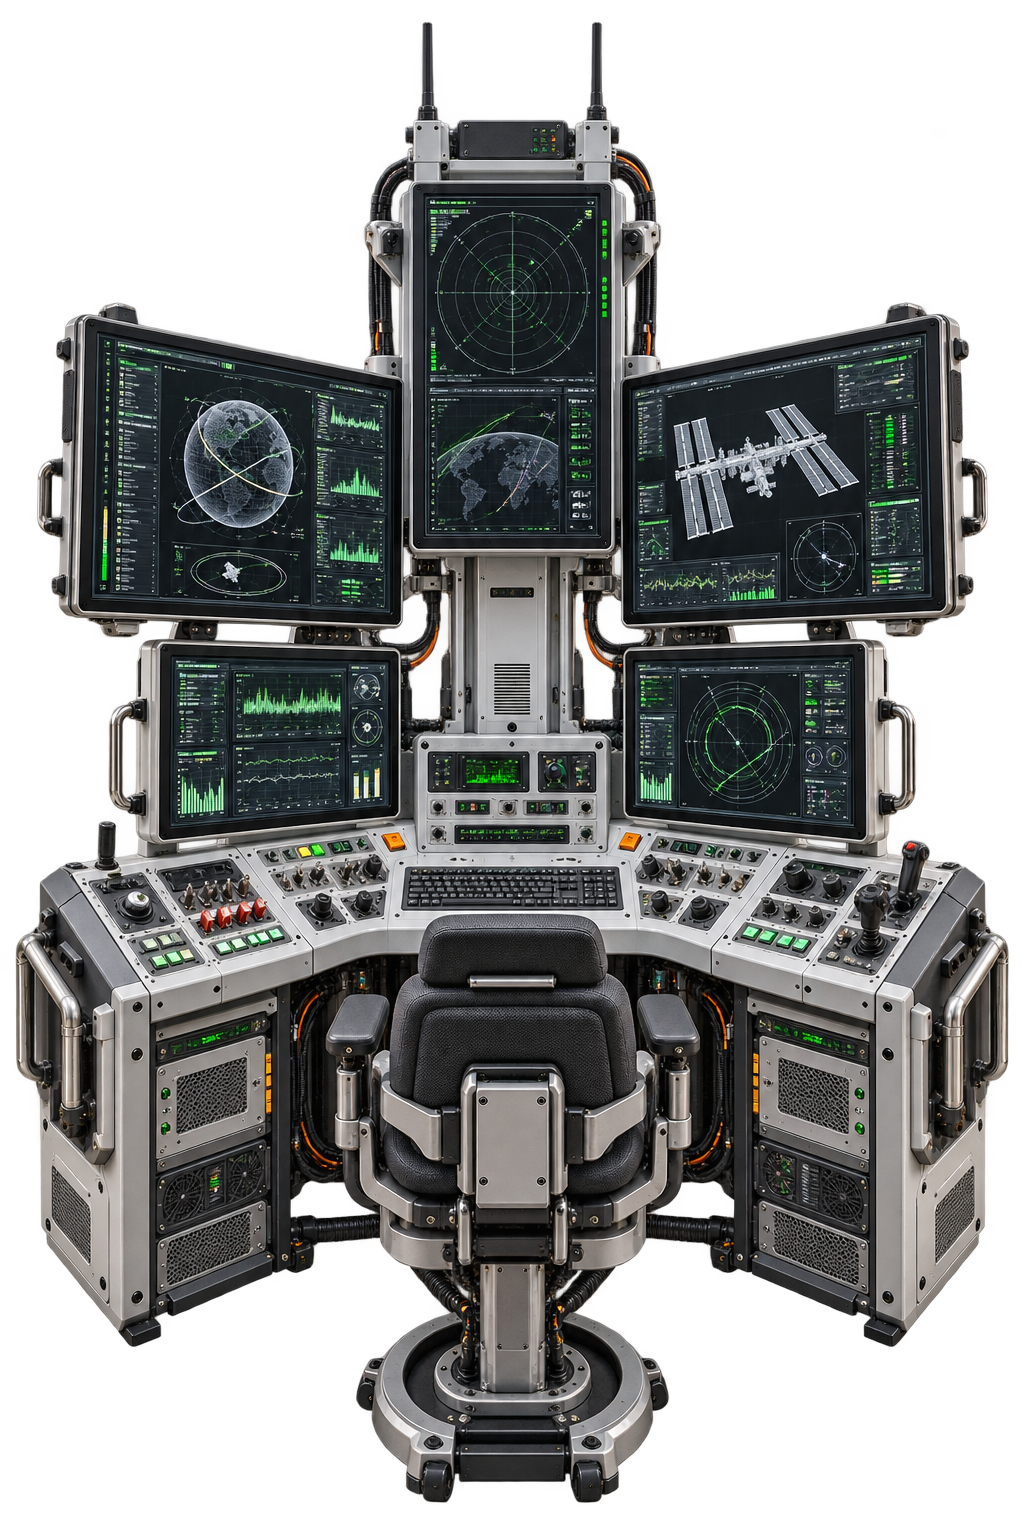
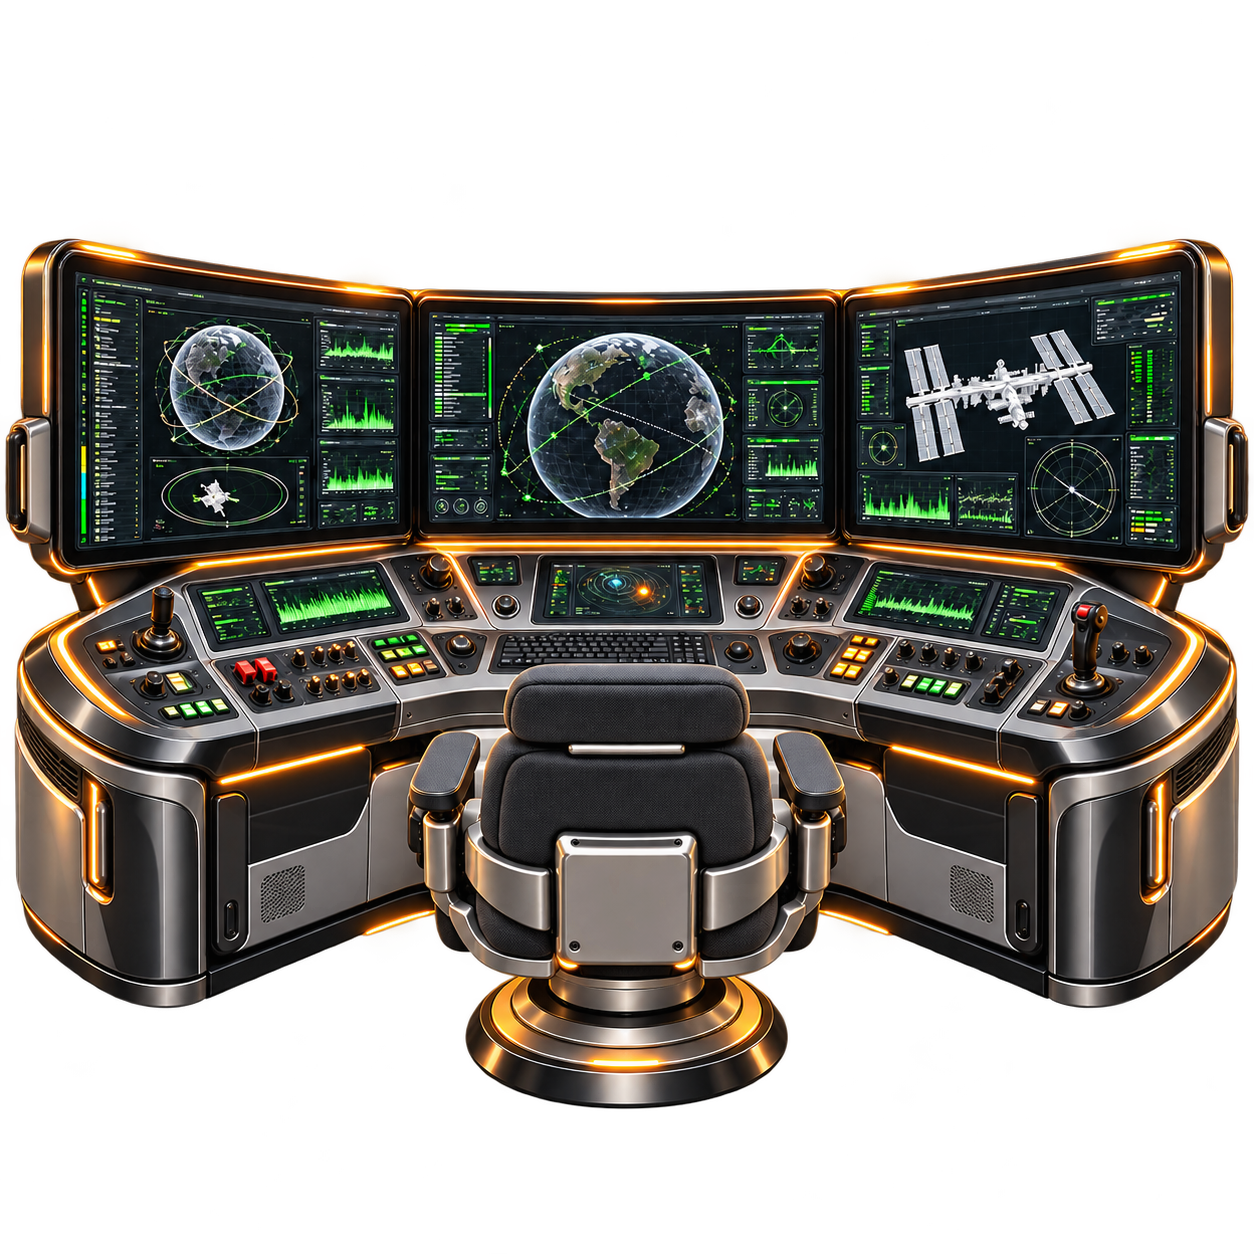
Refine control center with rounded glossy surfaces and solar edge light

diff --git a/index.html b/index.html
@@ -55,7 +55,7 @@
 </div>
 <div class="hero-new" style="clip-path:inset(-120px 0 0 50%);">
 <div aria-hidden="true" class="white-halo sun-stage"><div class="solar-aura"></div><video class="sun-video" loop="" muted="muted" playsinline="" poster="assets/images/sun-poster.jpg" preload="none" tabindex="-1"><source media="(max-width:760px)" src="assets/video/sun-mobile.mp4" type="video/mp4"/><source src="assets/video/sun-desktop.mp4" type="video/mp4"/></video><div class="solar-corona-layer"><img alt="" class="solar-corona-plate" height="512" src="assets/images/sun-corona.webp" width="512"/><video class="solar-corona-video" height="512" loop="" muted="" playsinline="" preload="none" tabindex="-1" width="512"><source media="(max-width:760px)" src="assets/video/sun-corona-mobile.webm" type="video/webm"/><source src="assets/video/sun-corona.webm" type="video/webm"/></video></div></div>
-<div aria-hidden="true" class="character-wrap control-center-wrap"><img alt="" class="hero-character control-center-image" fetchpriority="high" height="1536" src="assets/images/control-center.webp" width="1024"/></div>
+<div aria-hidden="true" class="character-wrap control-center-wrap"><img alt="" class="hero-character control-center-image" fetchpriority="high" height="1254" src="assets/images/control-center.webp" width="1254"/></div>
 <div class="hero-title-group">
 <p class="eyebrow mono"><span></span>Alte Website. Neue Dimension.</p>
 <h1 class="dexter-title" id="hero-title"><span>DIGITAL</span><br/> <span class="outline">REWORK</span><b>.</b></h1>

diff --git a/assets/css/studio.css b/assets/css/studio.css
@@ -899,15 +899,15 @@ html.studio-tab-hidden .hero-new * { animation-play-state:paused !important; }
 .solar-corona-video.is-ready { opacity:1; }
 @media(prefers-reduced-motion:reduce) { .solar-corona-video { display:none; } }
 
-/* Foreground control center replaces the astronaut; the sun and copy retain their layout. */
-.character-wrap.control-center-wrap { width:420px; height:630px; bottom:22px; }
+/* Compact rounded control center, clear of both text columns. */
+.character-wrap.control-center-wrap { width:min(28vw,400px); height:min(28vw,400px); bottom:165px; }
 .hero-character.control-center-image { filter:drop-shadow(0 12px 22px #0009); }
 @media (min-width:1550px) {
-  .character-wrap.control-center-wrap { width:450px; height:675px; bottom:30px; }
+  .character-wrap.control-center-wrap { width:420px; height:420px; bottom:160px; left:54%; }
 }
 @media (max-width:1100px) {
-  .character-wrap.control-center-wrap { width:330px; height:495px; bottom:35px; }
+  .character-wrap.control-center-wrap { width:27vw; height:27vw; max-width:300px; max-height:300px; top:170px; bottom:auto; left:53%; }
 }
 @media (max-width:760px) {
-  .character-wrap.control-center-wrap { width:220px; height:330px; top:43px; bottom:auto; left:64%; }
+  .character-wrap.control-center-wrap { width:220px; height:220px; top:43px; bottom:auto; left:64%; }
 }

diff --git a/docs/control-center-prompt.md b/docs/control-center-prompt.md
@@ -1,11 +1,14 @@
 # Kontrollzentrale – finaler Bildprompt
 
-Erstellt mit der integrierten Bildgenerierung (Edit auf Basis des ersten Motivs).
-Tatsächlich ausgegeben: 1024 × 1536 Pixel, RGBA, mit Transparenz.
+Erstellt mit der integrierten Bildgenerierung als gezielte Überarbeitung.
+Tatsächlich ausgegeben: 1254 × 1254 Pixel, RGBA, mit Transparenz.
 Für die Website als verlustfreies WebP ohne Größenänderung gespeichert.
-Der Auflösungswunsch im Prompt wurde vom Bildwerkzeug nicht auf 2048 × 3072 umgesetzt; es wird keine größere native Auflösung behauptet.
+Die Ausgabe ist nicht auf eine größere Auflösung hochskaliert.
+
+Visuelle Referenz: https://www.youtube.com/watch?v=VVzm8yyHCHE
+Der YouTube-Player blieb im Ladezustand; ergänzend wurden Standbild-Suchergebnisse der Light-Cycle-Szene für Oberflächen und Licht betrachtet. Keine Filmgrafiken im Produkt verwendet.
 
 ```text
-Use case: style-transfer and precise-object-edit. Asset type: transparent website foreground control center. Edit the referenced control-center asset. The user finds it blurry, too alien and too gloomy. REDESIGN it as a realistic contemporary HUMAN-ENGINEERED mission control workstation, clean and brighter, with substantially sharper fine detail. OUTPUT A HIGHER NATIVE RESOLUTION PORTRAIT IMAGE, ideally 2048x3072, not a simple upscale of the reference. Render fresh fine geometry and real sharp detail. Preserve the centered freestanding portrait composition and actual transparent background. Entire hardware visible, with padding around all edges, no cut-off antennae. Subject: a compact professional aerospace control station: restrained satin light-gray aluminum and graphite panels, practical upright screen rack, neat wraparound console, real ergonomic empty operator chair, precisely separated keys, coherent toggle-switch banks, rotary knobs, screws, ventilation slots and well-organized wiring. Build it like real precision equipment in a clean modern mission-control room, not an alien throne, junkyard, biomechanical sculpture or rusty spaceship. Replace the ornate dark exoskeleton and dramatic arch with simple engineered screen supports. Four to six larger crisp flat-panel monitors with high-contrast radar rings, orbit plots, waveform telemetry and clearly separated interface panels; mostly neutral gray / white interface lines with restrained laser-green #19E50F status accents. Maintain fine instrument detail without filling every surface with random tiny gibberish. Bright soft neutral studio lighting illuminates all hardware, clean realistic micro-textures, sharp metal edges, subtle warm amber rim reflections only. Deep focus: the entire console, every screen, the keyboard and chair are tack sharp. No depth-of-field blur, motion blur, bloom, haze, dirty lens, film grain, heavy vignette, soft painterly details or dark underexposure. Photorealistic high-end industrial product visualization at close inspection. No blue/purple lighting, people, astronaut, logos, captions, floor rectangle, opaque background, galaxy or sun. Preserve transparency in structural openings and around the complete station. This is an isolated finished asset, not a website mockup.
+Use case: style-transfer / lighting-weather. Edit the provided COMPACT rounded control station. Keep its exact low, wide ergonomic silhouette, three large monitors in a shallow arc, wraparound console, empty chair, detailed sharp telemetry, square composition and actual transparent background. Change ONLY the surface design, refined detailing and lighting to a sleek TRON: Legacy light-cycle-inspired design language: smooth glossy graphite, polished dark smoked glass, clean fluid curvature, precise thin luminous seams, crisp cinematic reflections. Do not copy any specific movie prop or logo. Replace beige/gold bulk surfaces with a balanced mix of glossy graphite shells, soft pearl-gray inset panels and subtly reflective titanium trim. Keep enough soft neutral-warm frontal fill to make the object clear and inviting, not gloomy or underexposed. No rough metal, rust, scratches, exposed exoskeleton, antennae, tall towers, spikes or alien ornament. Retain distinctly rendered practical controls with clean flush housings; every key, joystick, knob and screen panel is sharply separated. Monitors remain readable with finely detailed radar rings, orbit diagrams, waveform telemetry and precise white/gray interface lines with restrained laser-green #19E50F highlights. No blue/cyan/purple tint; use the website's green and amber palette. IMPORTANT SOLAR LIGHTING: a blazing orange sun is behind and above the object. Narrow warm AMBER-ORANGE edge light must catch the top and outward-facing sides of the monitor housings and console, with believable amber reflections on glossy surfaces. Use a few fine integrated warm-white/amber light seams; avoid broad golden tube outlines, yellow washed surfaces, huge glow, haze or blurred bloom. Reflections and highlights reveal the polished surfaces without making the whole station black. The style should feel sophisticated, modern, smooth, compact and human-engineered. Preserve image detail and sharpness with deep focus across the complete station; no grain, softness, depth-of-field blur or painterly rendering. Entire station completely visible with transparent padding on every edge. Retain a square high-native-resolution output, 1254x1254 or larger, not an upscaled blurry image. Genuine transparency around and through structural gaps. No floor rectangle, opaque backdrop, sun, galaxy, people, captions, watermarks or logos. This is an isolated finished website foreground asset, not a webpage mockup.
 ```
 

diff --git a/PROJECT_NOTES.md b/PROJECT_NOTES.md
@@ -370,19 +370,19 @@ sichtbarem rechten, linken und oberen Ausbruch geprüft und dokumentiert:
 docs/nova-live-preview.jpg. Zurückziehen und Ruhephase im decodierten
 Kontaktbogen kontrolliert. Ursprüngliche Sonnenvideos sind unverändert.
 
-## Astronaut durch hochauflösende Kontrollzentrale ersetzt
-Basis 89b40a0, neuer Preview-Branch feat/control-center-20261022.
-Neue fotorealistische Kontrollzentrale mit eingebauter Bildgenerierung erstellt:
-1024x1536 RGBA, gleiche Pixelauflösung wie das bisherige Astronautenasset.
-Freigestellte moderne Hardware mit Radar, Telemetrie, hellem Aluminium,
-Graphit und dezenten warmen Reflexen;
-keine Person und kein eigener Hintergrund. Alpha geprüft: rund 37 Prozent
-vollständig transparent, Außenkanten maximal Alpha 1/255. WebP in Originalgröße
-verlustfrei exportiert (1708164 Bytes); keine Hochskalierung. Die verfeinerte
-Fassung hat klar getrennte Anzeigen und präzisere Bedienelemente. Ausgabe
-des Bildwerkzeugs bleibt trotz größerem Auflösungswunsch 1024x1536; keine
-Behauptung von nativer 2K-/4K-Auflösung. PNG und WebP pixelgenau verglichen.
-Das neue Asset nutzt die bestehende Vordergrund-/Eingangsanimation. Nur der
-Bildpfad und motivspezifische Größenregeln ändern sich; der bisherige Farbfilter
-mit Hue-Rotate ist für das neue Motiv deaktiviert. Sonne und Koronafilme,
-Galaxie und Steuerlogik werden nicht geändert. Prompt: docs/control-center-prompt.md.
+## Astronaut durch moderne kompakte Kontrollzentrale ersetzt
+Basis 89b40a0, Preview-Branch feat/control-center-20261022.
+Finale Fassung nach Patricks Präzisierungen: niedrige gerundete Konsole, drei
+breite Monitore, klar getrennte Bedienelemente, glänzendes Graphit, hellere
+Einlagen und präzise grüne Telemetrie. Keine hohe spitze/raue Maststruktur.
+Warme orange Kanten und Reflexe verbinden das Objekt optisch mit der Sonne.
+TRON-Referenz VVzm8yyHCHE identifiziert; Player blieb bei readyState=0 auch
+nach Qualitätsreduktion. Deshalb Standbild-Suchergebnisse der Szene ergänzend
+für Glanzflächen, Lichtlinien und Reflexe herangezogen, keine Filmassets kopiert.
+Bildgenerierung als eigenes Asset; tatsächliche Ausgabe 1254x1254 RGBA,
+rund 1.57 MP. Keine künstliche Hochskalierung, verlustfreies WebP (1317204 Bytes)
+ist pixelgleich mit der PNG. Die frühere hohe Variante wird im HTML ersetzt.
+Das Motiv nutzt die bestehende Ankunftsanimation. Sonnen-/Koronafilme,
+Galaxie und Steuerlogik bleiben unverändert. Kein Hue-Rotate für das neue Bild.
+Quadratische motivspezifische CSS-Box, mobil 220x220, erhält freie Textflächen.
+Finaler Prompt und Bildherkunft: docs/control-center-prompt.md.

diff --git a/DESIGN_SYSTEM.md b/DESIGN_SYSTEM.md
@@ -147,13 +147,14 @@ per Tastatur und Touch steuerbar und hat ein dynamisches aria-label.
 Die orange/gelben Screenshot-Kästen sind Markierungen, keine sichtbaren Rahmen.
 
 ## Kontrollzentrale als neues Hero-Motiv
-Auf Patricks ausdrücklichen Wunsch ersetzt eine realistische freigestellte
-Kontrollzentrale den Astronauten. Asset: assets/images/control-center.webp,
-1024x1536 Pixel, gleiche Originalauflösung wie der Astronaut, mit echtem Alpha.
-Helles präzises Aluminium, Graphit, Glas, klar getrennte Radar-/Telemetrieanzeigen
-und gezielte grüne Instrumentenakzente. Moderne menschliche Technik, hell und
-gut lesbar; keine außerirdischen Formen, rostigen Strukturen oder Unterbelichtung.
-Keine Personen. Das WebP wird verlustfrei in nativer Größe eingebunden.
-Kein Hue-Rotate auf diesem Asset: Grün bleibt #19E50F, Amber bleibt warm.
-Nur Motivgröße und Position werden auf die breitere Silhouette abgestimmt.
-Sonne, 33.5-s-Korona, Galaxie, Vergleichsregler und Texte bleiben bestehen.
+Auf Patricks Wunsch ersetzt eine realistische freigestellte Kontrollzentrale
+den Astronauten. Asset: assets/images/control-center.webp, 1254x1254 Pixel
+(rund 1.57 MP wie das ursprüngliche Astronautenasset), Alpha, verlustfreies WebP.
+Kompakte flache Monitorreihe, weich gerundete glänzende Graphitgehäuse,
+hellere Einsätze, Titan und dunkles Glas. Präzise grüne Radar-/Telemetrieanzeigen.
+TRON-Legacy-Light-Cycle als Material-/Lichtreferenz: glatte Reflexionsflächen,
+präzise Lichtlinien, klare Kontraste. Sonne erzeugt warme orange-goldene
+Reflexe an oberen und seitlichen Rändern. Kein hoher Mast oder Antennen.
+Keine Personen, rauen Oberflächen, rostigen oder außerirdischen Strukturen.
+Kein Hue-Rotate auf dem Asset. Nur Motivgröße/Position an die kompakte Form
+angepasst; Sonne, 33.5-s-Korona, Galaxie, Vergleichsregler und Texte erhalten.
